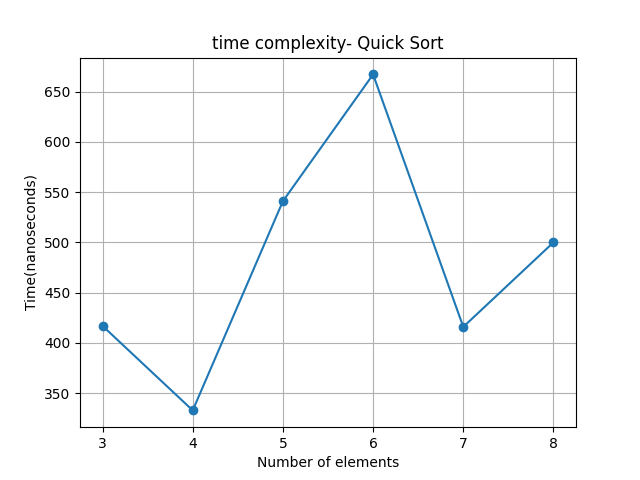
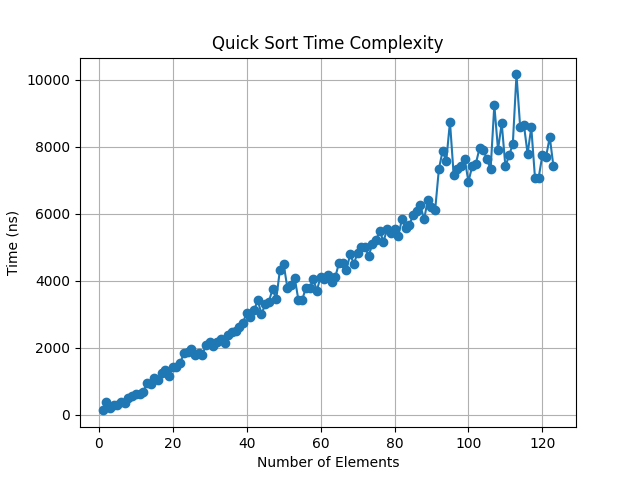
Quick Sort

diff --git a/labs/lab3/Quick Sort/Quick_sort.py b/labs/lab3/Quick Sort/Quick_sort.py
@@ -1,11 +1,19 @@
 import matplotlib.pyplot as plt
 
-n = [3, 4, 5, 6, 7, 8]   
-time_ns = [417, 333, 541, 667, 416, 500] 
+n_values = []
+time_values = []
 
-plt.plot(n, time_ns, marker='o')
-plt.xlabel("Number of elements")
-plt.ylabel("Time(nanoseconds)")
-plt.title("time complexity- Quick Sort")
+with open("quick_sort.txt", "r") as file:
+    next(file)  
+
+    for line in file:
+        n, t = line.split()
+        n_values.append(int(n))
+        time_values.append(int(t))
+
+plt.plot(n_values, time_values, marker='o')
+plt.xlabel("Number of Elements")
+plt.ylabel("Time (ns)")
+plt.title("Quick Sort Time Complexity")
 plt.grid(True)
 plt.show()

diff --git a/labs/lab3/Quick Sort/Quick_sort.cpp b/labs/lab3/Quick Sort/Quick_sort.cpp
@@ -1,4 +1,6 @@
 #include<iostream>
+#include<chrono>
+#include<fstream>
 using namespace std;
 
 void interchange(int a[], int i, int j){
@@ -43,6 +45,8 @@ int main(){
     cin>>max;
     int mid, low, high;
     srand(time(0));
+    ofstream fout("quick_sort.txt");
+    fout << "n time_ns"<<endl;
 
 
     for (int n = min; n <= max; n++){
@@ -65,6 +69,7 @@ int main(){
         auto duration = chrono::duration_cast<chrono::nanoseconds>(end - start);
 
         cout<<endl<<"Time Taken = "<<duration.count()<<" ns"<<endl;
+        fout<<n<<" "<<duration.count()<<endl;
     }    
     return 0;
 }